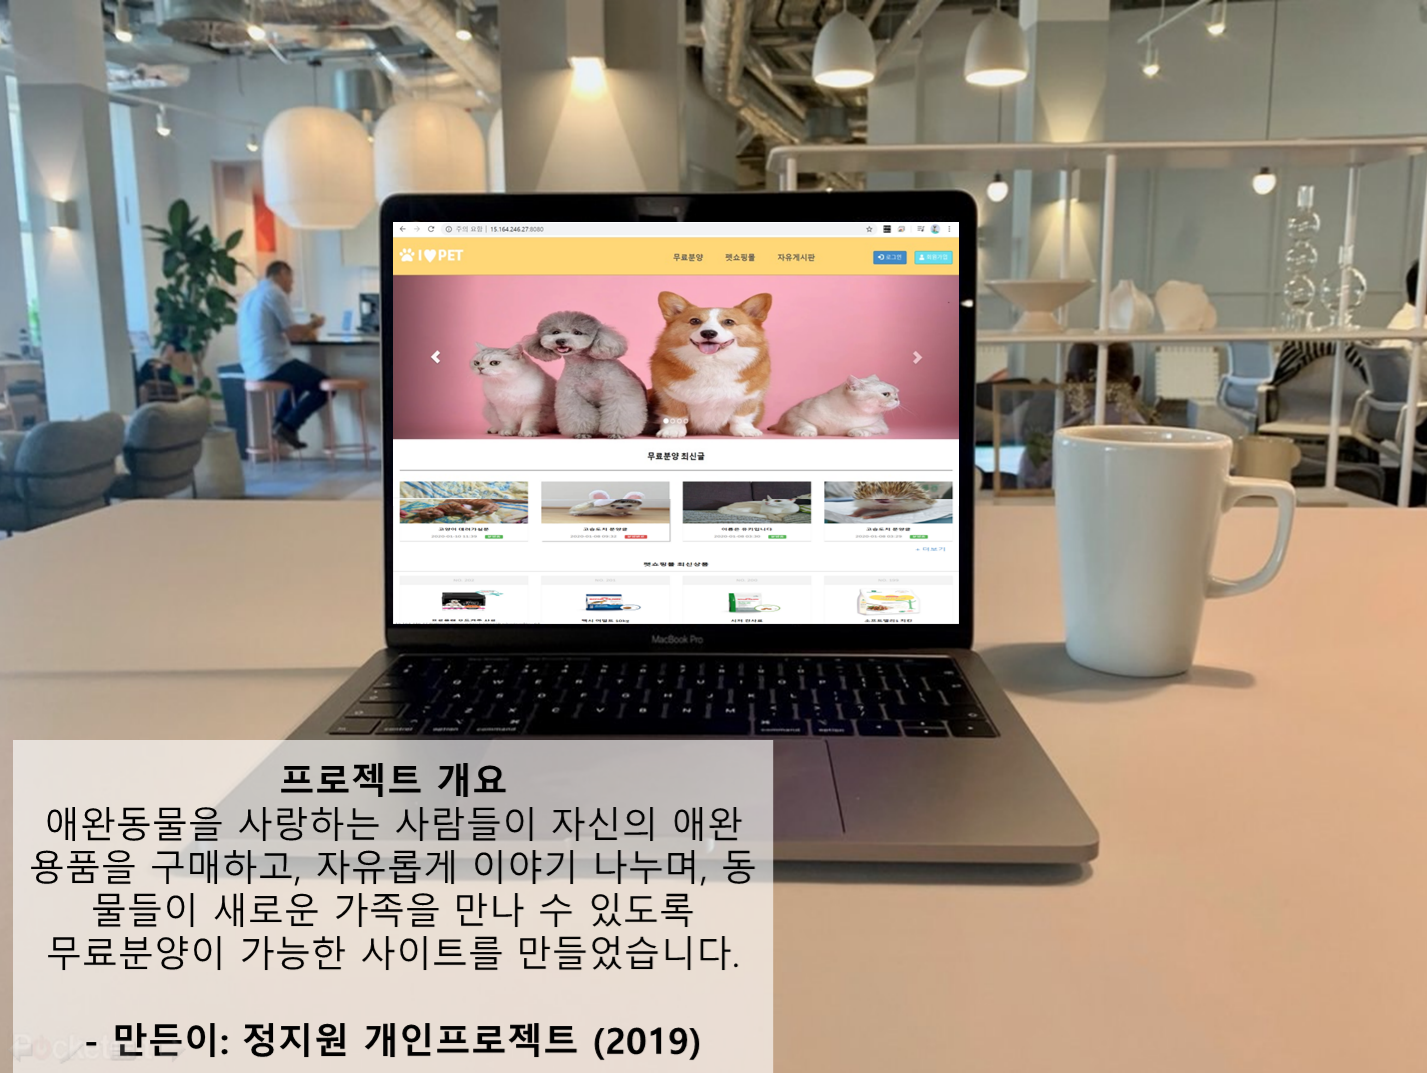
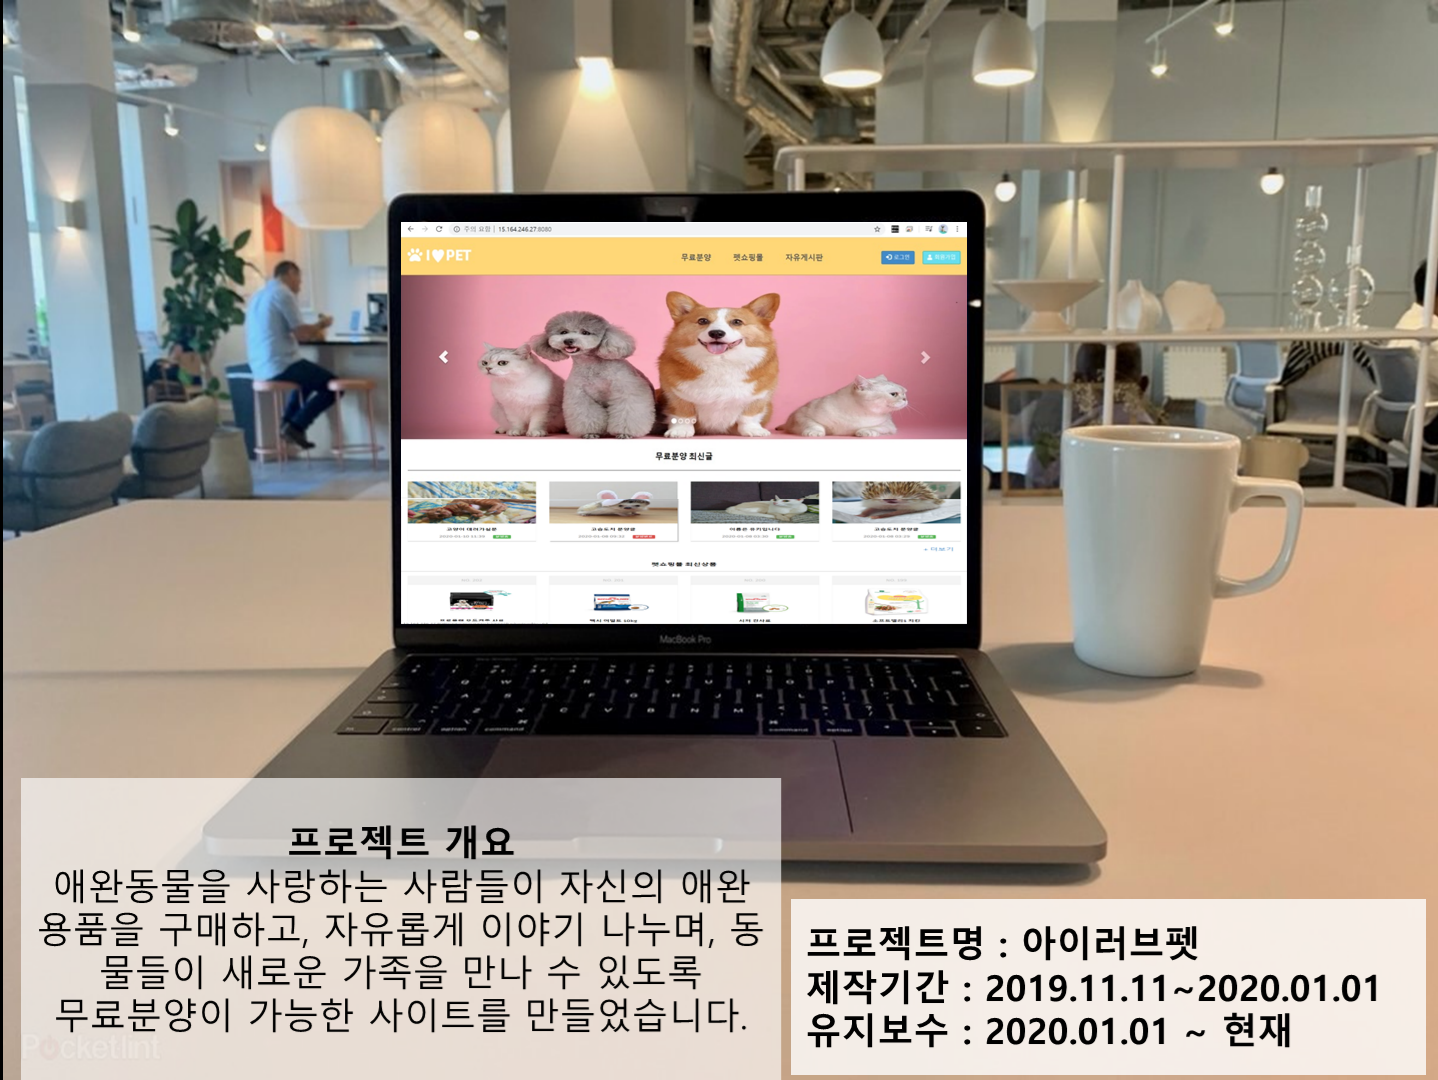
전공지식 제거 및 이미지 변경

diff --git a/_includes/portfolio.html b/_includes/portfolio.html
@@ -6,8 +6,10 @@
                 <h2 class="section-heading"><b>프로젝트</b></h2>
                 <hr class="primary">
                 <a href="http://15.164.246.27:8080"
-                    style="color:#215198; font-size: 20px;"><b>http://15.164.246.27:8080</b></a>
-                <br>
+                    style="color:#215198; font-size: 20px;" target="_blank"><b>URL : http://15.164.246.27:8080</b></a><br><br>
+                <a href="https://bitbucket.org/jiwonjung/ilovepet_project1/src/master/"
+                    style="color:black; font-size: 15px;" target="_blank"><b>Bitbucket : https://bitbucket.org/jiwonjung/ilovepet_project1/src/master/</b></a>
+                <br><br>
                 <h4><b>일반 ID: test1</b></h4>
                 <h4><b>일반 PW: 1234</b></h4> <br>
                 <h4><b>관리자 ID: admin</b></h4>
@@ -19,7 +21,7 @@
             <div class="container-fluid">
                 <!-- 하나로 꽉 채우기 -->
                 <div class="col-lg-12 col-sm-6">
-                    <a href="http://15.164.246.27:8080" class="portfolio-box" style="max-width: 60%;">
+                    <a href="http://15.164.246.27:8080" class="portfolio-box" style="max-width: 60%;"  target="_blank">
                         <img src="img/portfolio1/1.png" class="img-responsive" alt="">
                         <div class="portfolio-box-caption">
                             <div class="portfolio-box-caption-content">
@@ -39,7 +41,7 @@
 
             <div class="container-fluid">
                 <div class="col-lg-12 col-sm-6">
-                    <a href="http://15.164.246.27:8080" class="portfolio-box" style="max-width: 60%;">
+                    <a class="portfolio-box" style="max-width: 60%;">
                         <img src="img/portfolio1/2.png" class="img-responsive" alt="">
 
                     </a>
@@ -49,18 +51,18 @@
 
             <div class="container-fluid">
                 <div class="col-lg-12 col-sm-6">
-                    <a href="http://15.164.246.27:8080" class="portfolio-box" style="max-width: 60%;">
+                    <a class="portfolio-box" style="max-width: 60%;">
                         <img src="img/portfolio1/3.png" class="img-responsive" alt="">
 
                     </a>
-                </div><br><br><br>
+                </div>
 
-            </div>
+            </div><br><br><br><br><br><br><br><br>
             <!--container-fluid-->
 
             <div class="container-fluid">
                 <div class="col-lg-12 col-sm-6">
-                    <a href="http://15.164.246.27:8080" class="portfolio-box" style="max-width: 60%;">
+                    <a class="portfolio-box" style="max-width: 60%;">
                         <img src="img/portfolio1/4.png" class="img-responsive" alt="">
 
                     </a>
@@ -71,7 +73,7 @@
 
             <div class="container-fluid">
                 <div class="col-lg-12 col-sm-6">
-                    <a href="http://15.164.246.27:8080" class="portfolio-box" style="max-width: 60%;">
+                    <a class="portfolio-box" style="max-width: 60%;">
                         <img src="img/portfolio1/5.png" class="img-responsive" alt="">
 
                     </a>
@@ -82,7 +84,7 @@
 
             <div class="container-fluid">
                 <div class="col-lg-12 col-sm-6">
-                    <a href="http://15.164.246.27:8080" class="portfolio-box" style="max-width: 60%;">
+                    <a class="portfolio-box" style="max-width: 60%;">
                         <img src="img/portfolio1/6.png" class="img-responsive" alt="">
 
                     </a>
@@ -93,7 +95,7 @@
 
             <div class="container-fluid">
                 <div class="col-lg-12 col-sm-6">
-                    <a href="http://15.164.246.27:8080" class="portfolio-box" style="max-width: 60%;">
+                    <a class="portfolio-box" style="max-width: 60%;">
                         <img src="img/portfolio1/7.png" class="img-responsive" alt="">
 
                     </a>
@@ -104,7 +106,7 @@
 
             <div class="container-fluid">
                 <div class="col-lg-12 col-sm-6">
-                    <a href="http://15.164.246.27:8080" class="portfolio-box" style="max-width: 60%;">
+                    <a class="portfolio-box" style="max-width: 60%;">
                         <img src="img/portfolio1/8.png" class="img-responsive" alt="">
 
                     </a>
@@ -115,7 +117,7 @@
 
             <div class="container-fluid">
                 <div class="col-lg-12 col-sm-6">
-                    <a href="http://15.164.246.27:8080" class="portfolio-box" style="max-width: 60%;">
+                    <a class="portfolio-box" style="max-width: 60%;">
                         <img src="img/portfolio1/9.png" class="img-responsive" alt="">
 
                     </a>
@@ -126,7 +128,7 @@
 
             <div class="container-fluid">
                 <div class="col-lg-12 col-sm-6">
-                    <a href="http://15.164.246.27:8080" class="portfolio-box" style="max-width: 60%;">
+                    <a class="portfolio-box" style="max-width: 60%;">
                         <img src="img/portfolio1/10.png" class="img-responsive" alt="">
 
                     </a>
@@ -137,7 +139,7 @@
 
             <div class="container-fluid">
                 <div class="col-lg-12 col-sm-6">
-                    <a href="http://15.164.246.27:8080" class="portfolio-box" style="max-width: 60%;">
+                    <a class="portfolio-box" style="max-width: 60%;">
                         <img src="img/portfolio1/11.png" class="img-responsive" alt="">
 
                     </a>
@@ -148,7 +150,7 @@
 
             <div class="container-fluid">
                 <div class="col-lg-12 col-sm-6">
-                    <a href="http://15.164.246.27:8080" class="portfolio-box" style="max-width: 60%;">
+                    <a class="portfolio-box" style="max-width: 60%;">
                         <img src="img/portfolio1/12.png" class="img-responsive" alt="">
 
                     </a>

diff --git a/_includes/services.html b/_includes/services.html
@@ -45,9 +45,11 @@
             </div>
             <div class="col-lg-3 col-md-6 text-center">
                 <div class="service-box">
-                    <img src="img/skills/springJPA.png" class="img-responsive" alt="" width="80px;" height="80px;" style="display:block; margin-left:auto; margin-right: auto;">
-                    <h3><b>Spring Boot JPA</b></h3>
-                    <p class="text-muted">테스트내용!!</p>
+                    <img src="img/skills/aws.png" class="img-responsive" alt="" width="80px;" height="80px;" style="display:block; margin-left:auto; margin-right: auto;">
+                    <h3><b>AWS로 서버배포</b></h3>
+                    <p class="text-muted"><i class='fas fa-angle-right'></i> AWS에 리눅스 기반 EC 인스턴스 및 IP 생성</p>
+                    <p class="text-muted"><i class='fas fa-angle-right'></i> puTTy로 인스턴스 외부접속</p>
+                    <p class="text-muted"><i class='fas fa-angle-right'></i> FileZilla 설정 및 war파일로 배포</p>                 
                 </div>
             </div>
         </div> 
@@ -82,22 +84,22 @@
                                   
                 </div>
             </div>
-            <div class="col-lg-3 col-md-6 text-center">
+            <!-- <div class="col-lg-3 col-md-6 text-center">
                 <div class="service-box">
                     <img src="img/skills/aws.png" class="img-responsive" alt="" width="80px;" height="80px;" style="display:block; margin-left:auto; margin-right: auto;">
-                    <h3><b>AWS로 서버배포</b></h3>
+                    <h3><b>자료구조</b></h3>
                     <p class="text-muted"><i class='fas fa-angle-right'></i> AWS에 리눅스 기반 EC 인스턴스 및 IP 생성</p>
                     <p class="text-muted"><i class='fas fa-angle-right'></i> puTTy로 인스턴스 외부접속</p>
                     <p class="text-muted"><i class='fas fa-angle-right'></i> FileZilla 설정 및 war파일로 배포</p>                 
                 </div>
-            </div>
+            </div> -->
         </div> 
     </div>
 <script src='https://kit.fontawesome.com/a076d05399.js'></script>
 </section>
 
 
-<section id="services">
+<!-- <section id="services">
     <div class="container">
         <div class="row">
             <div class="col-lg-12 text-center">
@@ -146,4 +148,4 @@
         </div>
     </div>
 <script src='https://kit.fontawesome.com/a076d05399.js'></script>
-</section>
+</section> -->

diff --git a/_includes/call-to-action.html b/_includes/call-to-action.html
@@ -4,7 +4,12 @@
             <div class="col-lg-8 col-lg-offset-2 text-center">
                 <h2 class="section-heading">발전을 즐기는 개발자</h2>
                 <hr class="light">
-                <p class="text-faded">안녕하세요. 예시 자기소개입니다.</p>
+                <p class="text-faded">PHONE: 010-6876-5125</p>
+                <p class="text-faded">EMAIL: seg615@naver.com</p>
+                <p class="text-faded">Blog: https://jiwontip.tistory.com/</p>
+                <p class="text-faded">BITBUCKET: https://bitbucket.org/jiwonjung/</p>
+                <p class="text-faded">GITHUB: https://github.com/jiwon615/</p>
+                
                 <!-- <a href="#" class="btn btn-default btn-xl">Get Started!</a> -->
             </div>
         </div>
